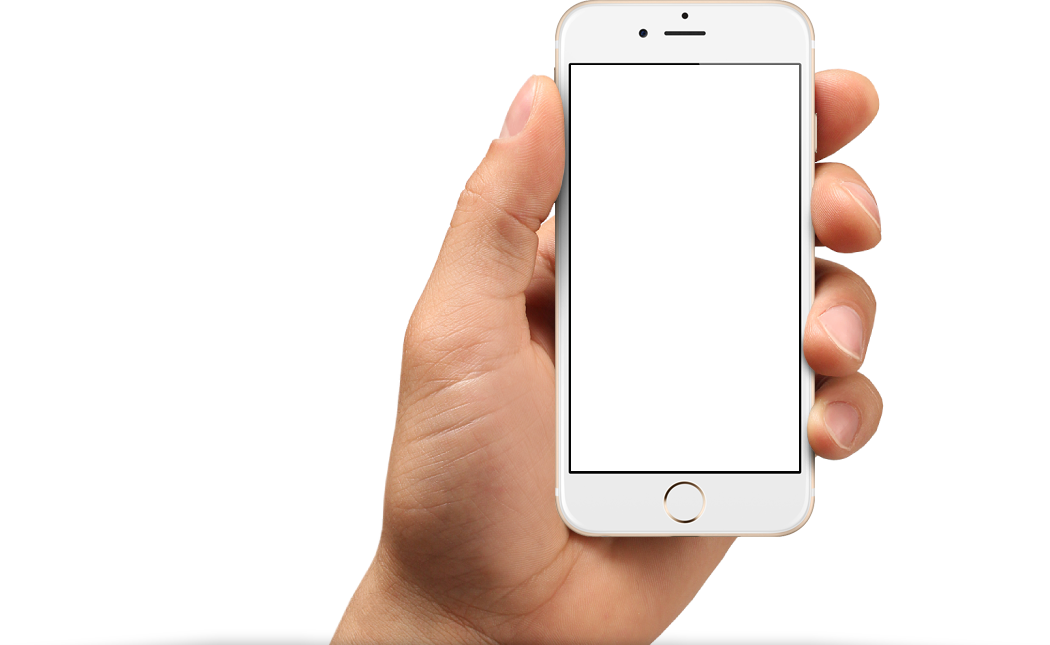
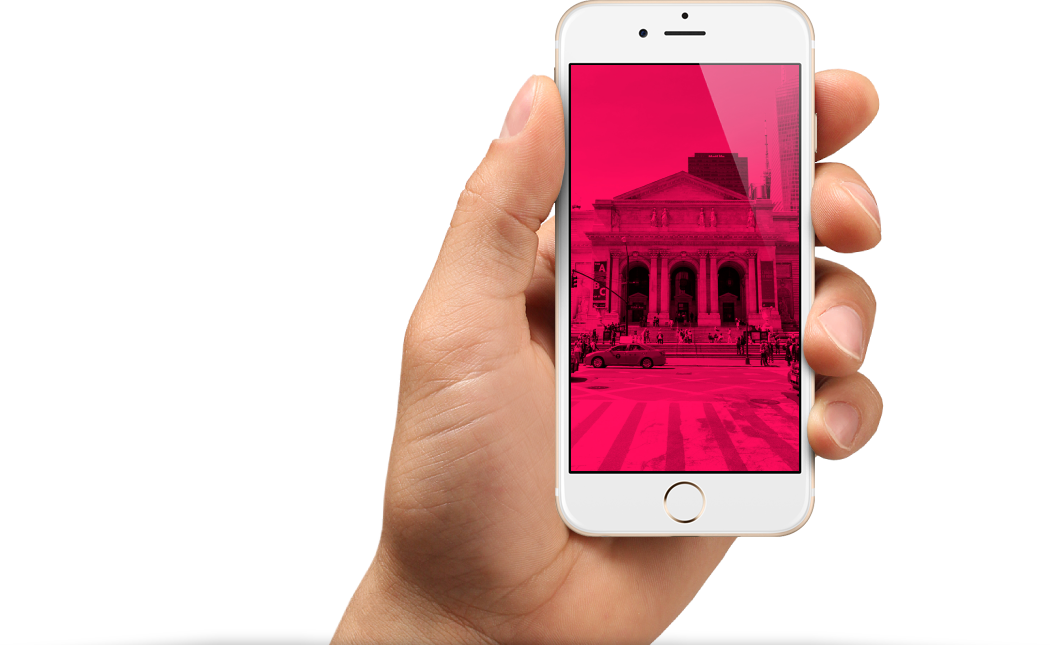
Адаптивная графика для главной страницы

Changed region(s): [[0.5181, 0.093, 0.7619, 0.7442]]

diff --git a/source/index.html b/source/index.html
@@ -43,23 +43,25 @@
     </header>
 
     <main class="page-main">
-      <h1 class="visually-hidden">Приложение Pink</h1>
-      <div class="block-intro">
-        <div class="block-intro__box">
-          <h2 class="block-intro__preview visually-hidden">Взгляните на жизнь иначе!</h2>
-          <div class="block-intro__phone phone"></div>
-        </div>
-        <div class="block-intro__bottom">
-          <h2 class="block-intro__preview block-intro__preview-display">Взгляните на жизнь иначе!</h2>
-          <div class="block-intro__link">
-            <a class="block-intro__button" href="https://www.apple.com/ru/app-store/">Скачать приложение</a>
+      <div class="block-intro__background">
+        <h1 class="visually-hidden">Приложение Pink</h1>
+        <div class="block-intro">
+          <div class="block-intro__box">
+            <h2 class="block-intro__preview">Взгляните на жизнь иначе!</h2>
+            <div class="block-intro__phone phone"></div>
           </div>
-          <div class="block-intro__socials socials">
-            <a class="socials__link" href="#"><img class="socials__logo socials__apple-logo" src="img/apple-logo.svg" width="47" height="56" alt="Apple"></a>
-            <a class="socials__link" href="#"><img class="socials__logo socials__android-logo" src="img/android-logo.svg" width="43" height="47" alt="Android"></a>
-            <a class="socials__link" href="#"><img class="socials__logo socials__microsoft-logo" src="img/microsoft-logo.svg" width="44" height="41" alt="Microsoft"></a>
+          <div class="block-intro__bottom">
+            <h2 class="block-intro__preview block-intro__preview-display">Взгляните на жизнь иначе!</h2>
+            <div class="block-intro__link">
+              <a class="block-intro__button" href="https://www.apple.com/ru/app-store/">Скачать приложение</a>
+            </div>
+            <div class="block-intro__socials socials">
+              <a class="socials__link" href="#"><img class="socials__logo socials__apple-logo" src="img/apple-logo.svg" width="47" height="56" alt="Apple"></a>
+              <a class="socials__link" href="#"><img class="socials__logo socials__android-logo" src="img/android-logo.svg" width="43" height="47" alt="Android"></a>
+              <a class="socials__link" href="#"><img class="socials__logo socials__microsoft-logo" src="img/microsoft-logo.svg" width="44" height="41" alt="Microsoft"></a>
+            </div>
+            <small class="block-intro__legend socials__legend">Доступно для iPhone, iPad, Android, Windows Phone, OS X, Windows 8</small>
           </div>
-          <small class="block-intro__legend socials__legend">Доступно для iPhone, iPad, Android, Windows Phone, OS X, Windows 8</small>
         </div>
       </div>
 
@@ -89,10 +91,8 @@
         </article>
 
         <article class="clock">
-          <div class="clock__img">
-            <span class="clock__image"><svg width="238" height="276" viewBox="0 0 238 276" fill="none" xmlns="http://www.w3.org/2000/svg"><path d="M211.314 81.6277L215.587 77.3408C221.752 71.1663 222.878 62.1925 218.086 57.4017C213.294 52.6109 204.334 53.7227 198.176 59.8971L193.871 64.208C176.746 50.2779 156.074 41.4187 134.187 38.6304V30.9603H140.305C149.019 30.9603 156.151 23.994 156.151 15.4842C156.151 6.97427 149.019 0 140.305 0H97.7208C89.0075 0 81.8755 6.96627 81.8755 15.4842C81.8755 24.002 89.0075 30.9603 97.7208 30.9603H103.839V38.6304C77.6967 41.9933 53.4093 53.9522 34.7872 72.6308C16.1652 91.3093 4.26218 115.651 0.945904 141.835C-2.37038 168.02 3.08771 194.566 16.4638 217.309C29.8399 240.052 50.377 257.704 74.8528 267.496C99.3286 277.288 126.358 278.665 151.7 271.412C177.042 264.16 199.263 248.687 214.875 227.421C230.488 206.156 238.609 180.302 237.964 153.915C237.32 127.529 227.946 102.103 211.314 81.6277ZM119.013 244.947C101.61 244.947 84.5984 239.779 70.1286 230.097C55.6589 220.414 44.3813 206.652 37.7219 190.551C31.0625 174.45 29.3205 156.733 32.7162 139.64C36.1119 122.547 44.4927 106.847 56.7989 94.5241C69.105 82.2015 84.7837 73.81 101.852 70.411C118.921 67.012 136.613 68.7581 152.69 75.4285C168.768 82.0989 182.509 93.3939 192.176 107.885C201.844 122.377 207.003 139.413 207.001 156.841C206.999 180.209 197.728 202.619 181.227 219.142C164.726 235.665 142.348 244.947 119.013 244.947Z" fill="#DEDEDE"/><circle cx="119" cy="156" r="93" stroke="#D22856" stroke-width="16"/></svg></span>
-          </div>
-          <div>
+          <div class="clock__img"></div>
+          <div class="clock__block">
             <h2 class="clock__title">Эффект на 24 часа!</h2>
             <p class="clock__text">Британские ученые провели исследования и доказали, что положительный эффект от использования приложения длится целые сутки!</p>
             <a class="clock__link" href="#">Узнать больше об исследовании</a>
@@ -200,7 +200,10 @@
       <div class="page-footer__wrapper">
         <div class="page-footer__logo logo">
           <a class="logo__link">
-            <img src="img/logotype-blue-tablet.svg" width="145" height="40" alt="Pink">
+            <picture>
+              <source media="(min-width: 1200px)" srcset="img/logotype-blue-desktop.svg">
+              <img src="img/logotype-blue-tablet.svg" width="145" height="40" alt="Pink">
+            </picture>
           </a>
         </div>
         <div class="page-footer__social social">

diff --git a/source/less/style.less b/source/less/style.less
@@ -79,8 +79,9 @@
     display: flex;
     flex-direction: column;
     justify-content: flex-end;
-    height: 450px;
+    min-height: 450px;
     background-image: url("../../img/back-mobile.png");
+    background-size: cover;
   }
 
   .block-intro__phone {
@@ -123,14 +124,37 @@
     padding-right: 20px;
   }
 
-  .block-intro,
-  .information__title,
-  .information__container,
+  .information__title {
+    padding: 50px 20px;
+  }
+
+  .information__container {
+    padding-top: 50px;
+  }
+
+  .information__item {
+    margin-bottom: 30px;
+  }
+
+  .block-intro__bottom,
   .reviews,
   .table__block,
-  .page-footer__wrapper,
-  .clock {
+  .page-footer__wrapper {
     padding: 0 20px;
+  }
+
+  .block-intro__preview {
+    position: absolute;
+    line-height: 120%;
+    top: 90px;
+    left: 0;
+    right: 0;
+    padding: 0 20px;
+  }
+
+  .clock,
+  .block-intro__preview-display {
+    display: none;
   }
 
   .user-box__title {
@@ -261,15 +285,28 @@
     order: 1;
   }
 
+  .block-intro__preview {
+    display: none;
+  }
+
   .block-intro__preview-display {
+    display: block;
+    position: relative;
+    top: 0;
     font-weight: 300;
     font-size: 40px;
     line-height: 120%;
+    margin-bottom: 50px;
+  }
+
+  .block-intro__link,
+  .block-intro__socials {
+    margin-bottom: 50px;
   }
 
   .block-intro__bottom {
-    justify-content: space-around;
     background-image: none;
+    padding-top: 100px;
     order: 0;
   }
 
@@ -278,12 +315,22 @@
     background-image: none;
   }
 
+  .page-main .block-intro__background {
+    position: relative;
+    min-height: 729px;
+    width: auto;
+    background-image: url("../../img/back-tablet.png");
+    background-repeat: no-repeat;
+    background-position: bottom center;
+    background-size: cover;
+  }
+
   .block-intro {
     box-sizing: border-box;
     display: grid;
     grid-template-columns: 1fr 1fr;
     min-height: 729px;
-    background-image: url("../../img/phone-tablet.png"), url("../../img/back-tablet.png");
+    background-image: url("../../img/phone-tablet.png");
     background-repeat: no-repeat;
     background-position: bottom center;
     margin: 0;
@@ -306,6 +353,10 @@
     background-repeat: no-repeat;
     background-position: top center;
     order: 0;
+  }
+
+  .information__item {
+    margin-bottom: 0;
   }
 
   .clock {
@@ -454,7 +505,6 @@
   }
 
   .block-intro,
-  .information__title,
   .information__container,
   .reviews,
   .table__block,
@@ -644,6 +694,10 @@
     flex-direction: row;
     justify-content: space-around;
   }
+
+  .block-intro__phone {
+    display: none;
+  }
 }
 
 @media (min-width: @desktop-width) {
@@ -711,12 +765,21 @@
     box-shadow: none;
   }
 
+  .page-main .block-intro__background {
+    position: relative;
+    min-height: 729px;
+    background-image: url("../../img/back-desktop.jpg");
+    background-repeat: no-repeat;
+    background-position: bottom center;
+    background-size: cover;
+  }
+
   .block-intro {
     width: 100%;
     height: 838px;
     display: grid;
     grid-template-columns: 1fr 1fr;
-    background-image: url("../../img/phone-desktop.png"), url("../../img/back-desktop.jpg");
+    background-image: url("../../img/phone-desktop.png");
     background-repeat: no-repeat;
     background-position: bottom center;
     margin: 0;
@@ -724,6 +787,8 @@
   }
 
   .block-intro__preview-display {
+    display: block;
+    position: relative;
     font-weight: 300;
     font-size: 50px;
     line-height: 68px;

diff --git a/source/less/blocks/clock.less b/source/less/blocks/clock.less
@@ -1,8 +1,12 @@
+.clock {
+  min-height: 350px;
+}
+
 .clock__img {
   text-align: center;
-  background-image: url("../../img/24.svg");
+  background-image: url("../../img/24-tablet.svg");
   background-repeat: no-repeat;
-  background-position: 50% 56%;
+  background-position: center;
 }
 
 .clock__title {

diff --git a/source/less/blocks/information.less b/source/less/blocks/information.less
@@ -4,11 +4,9 @@
 }
 
 .information__title {
-  height: 205px;
   background: white;
   display: flex;
   flex-direction: column;
-  padding-top: 45px;
 }
 
 .information-block {
